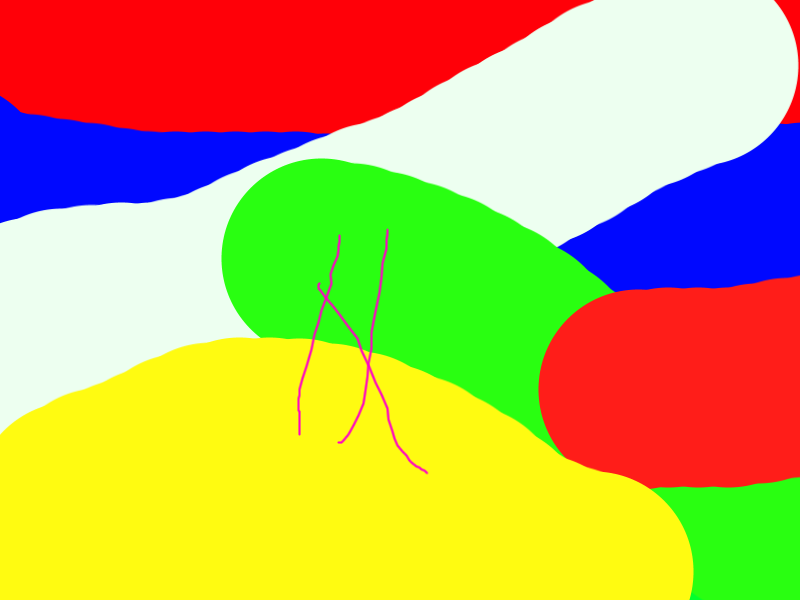
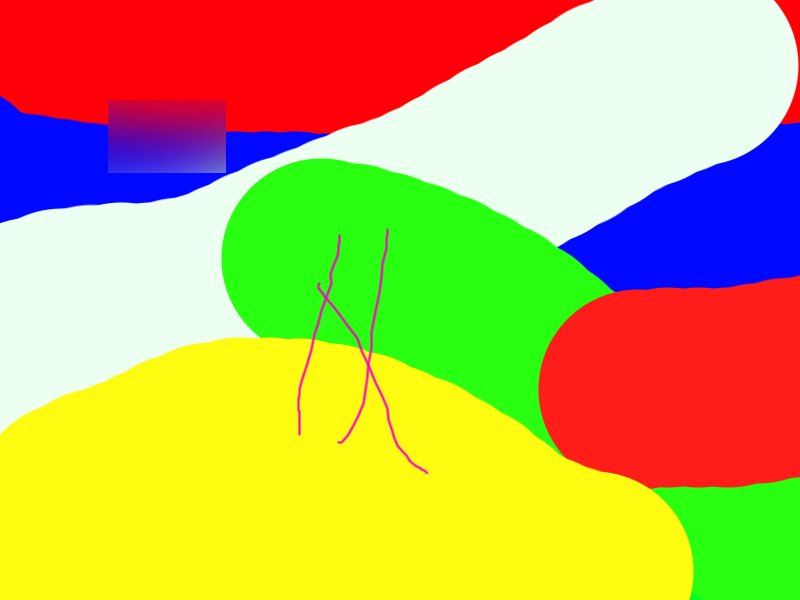
added mean blur with variable size it's very slow tough

Changed region(s): [[0.125, 0.15, 0.2812, 0.3]]

diff --git a/imageProcessor.cs b/imageProcessor.cs
@@ -1,0 +1,102 @@
+using System;
+using System.Collections.Generic;
+using System.Linq;
+using System.Text;
+using System.Threading.Tasks;
+using System.Drawing;
+
+namespace ConsoleApplication2
+{
+    static class ImageProcessor
+    {
+        public static Bitmap greyifi(Bitmap image)
+        {
+            Bitmap imageOut = image;
+            for (int x = 0; x < image.Width; x++)
+            {
+                for (int y = 0; y < image.Height; y++)
+                {
+                    Color pixel = image.GetPixel(x, y);
+                    int average = (int)((0.3 * pixel.R) + (0.6 * pixel.G) + (0.1 * pixel.B));
+                    imageOut.SetPixel(x, y, Color.FromArgb(average, average, average));
+                }
+            }
+            return imageOut;
+        }
+
+        public static Bitmap blur(Bitmap image, int[,] kernel)
+        {
+            Bitmap imageOut = image;
+            for (int x = 0; x < image.Width; x++)
+            {
+                for (int y = 0; y < image.Height; y++)
+                {
+                    Position[,] grid = getGrid(x, y, image, kernel.GetLength(0), kernel.GetLength(1));
+                    int totalR = 0;
+                    int totalG = 0;
+                    int totalB = 0;
+                    int totalMultiplication = 0;
+                    for (int gridx = 0; gridx < grid.GetLength(0); gridx++)
+                    {
+                        for (int gridy = 0; gridy < grid.GetLength(1); gridy++)
+                        {
+                            if (grid[gridx, gridy] != null)
+                            {
+                                Color pixel = image.GetPixel(grid[gridx, gridy].x, grid[gridx, gridy].y);
+                                totalR += pixel.R * kernel[gridx, gridy];
+                                totalG += pixel.G * kernel[gridx, gridy];
+                                totalB += pixel.B * kernel[gridx, gridy];
+                                totalMultiplication += kernel[gridx, gridy];
+                            }
+                            
+                        }
+                    }
+                    Color newPixel = Color.FromArgb(totalR /= totalMultiplication, totalG /= totalMultiplication, totalB /= totalMultiplication);
+                    imageOut.SetPixel(x, y, newPixel);
+                }
+            }
+            return imageOut;
+        }
+
+        public static Position[,] getGrid(int xpos, int ypos, Bitmap image, int width, int height)
+        {
+            Position[,] grid = new Position[width, height];
+            for (int x = 0; x < width; x++)
+            {
+                for (int y = 0; y < height; y++)
+                {
+                    if (!(xpos + x - width / 2 < 0 || ypos + y - height / 2 < 0 || xpos + x >= image.Width || ypos + y >= image.Height))
+                    {
+                        grid[x,y] = new Position(xpos + x - width / 2, ypos + y - height / 2);
+                    }
+                }
+            }
+            return grid;
+        }
+
+        public static int[,] generateKernel(int size, int mean, int sd)
+        {
+            int[,] kernel = new int[size, size];
+            for (int x = 0; x < size; x++)
+            {
+                for (int y = 0; y < size; y++)
+                {
+                    kernel[x,y] = 1;
+                }
+            }
+            return kernel;
+        }
+
+        public class Position
+        {
+            public int x;
+            public int y;
+            public Position(int x, int y)
+            {
+                this.x = x;
+                this.y = y;
+            }
+
+        }
+    }
+}

diff --git a/Mainr.cs b/Mainr.cs
@@ -1,0 +1,26 @@
+using System.Drawing;
+using System;
+using System.Diagnostics;
+using System.Collections.Generic;
+
+namespace ConsoleApplication2
+{
+    class Mainr
+    {
+        static void Main(string[] args)
+        {
+            //ImageProcessor ima = new ImageProcessor();
+            Bitmap imageIn = new Bitmap("C:/Users/Gebruiker/Documents/visual studio 2015/Projects/ConsoleApplication2/ConsoleApplication2/input.png");
+            Bitmap imageOut;
+            int[,] kernel =
+            {
+                {1,1,1},
+                {1,1,1},
+                {1,1,1}
+            };
+            imageOut = ImageProcessor.blur(imageIn, ImageProcessor.generateKernel(4,1,1));
+            //imageOut = ImageProcessor.greyifi(imageIn);
+            imageOut.Save("C:/Users/Gebruiker/Documents/visual studio 2015/Projects/ConsoleApplication2/ConsoleApplication2/output.png");
+        }
+    } 
+}
